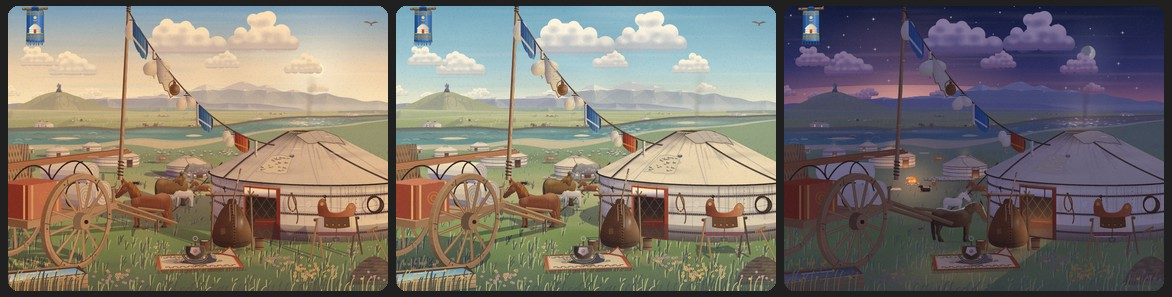
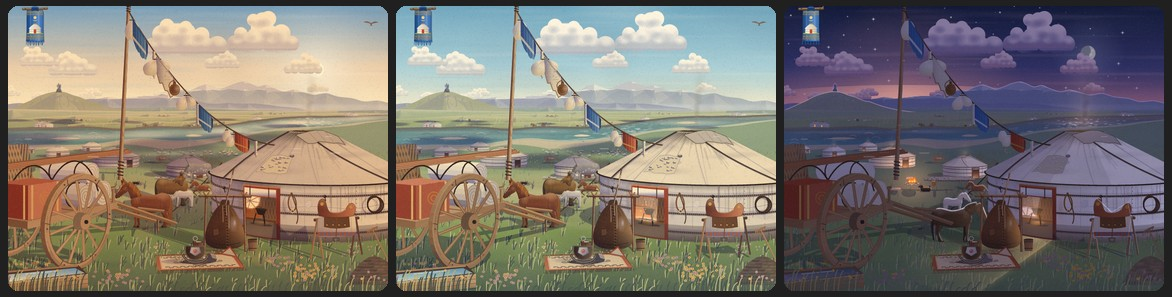
Informe de S12: la ronda de luz de Mongol, sus imágenes de referencia y la verificación de nuevo
- Sección «Ronda de luz (15 nov 2026)»: lo que pidió el autor, las cinco ideas y cómo quedaron en cada cuadro (la
  tienda como estancia con la mancha del aro, la sombra del cerro con su franja, las sombras de nube, el sol raso y
  el claro de tormenta, la luz en el aire, lo pintado y la noche a dos luces), con sus funciones y pruebas.
- Reglas 1 y 8, decisiones, archivos y pruebas al día.
- Verificación con el código nuevo: 243 pruebas, barrido de 26,383 dibujos sin fallas, peso 1.57 veces Helénico,
  capas de sombra contadas de día y de noche.
- referencia_mongol.jpg y referencia_mongol_verano.jpg, sacadas otra vez (mismos días y horas).

Claude-Session: https://claude.ai/code/session_01DBWaGQY33XkSfzf5ZFQik2

diff --git a/docs/historia/informes/S12.md b/docs/historia/informes/S12.md
@@ -4,6 +4,8 @@ Fecha: 15 nov 2026. Plan: `docs/plan_historia_y_escenas.md` (sección 8). Guía 
 
 **Esta tanda se hizo con otro esquema, a modo de prueba, acordado con el autor.** Una sesión que dirige **fijó la composición por escrito antes de dibujar** (desde dónde se mira cada cuadro, el marco, la diagonal grande y la contradiagonal, qué va en cada plano y los fallos de S11 que no se podían repetir) y **revisó cada entrega junto a Helénico**. El dibujo lo hicieron agentes separados, cada uno en su copia del repositorio: uno para lo común y el encaje de los dos cuadros, uno para cada cuadro, y uno para las piezas, los objetos del día, la banderita y el gato. Hubo dos rondas de corrección escritas (y una vuelta más del valle). Los documentos de trabajo (la composición, las dos revisiones y la lectura del calendario y del cuento) quedaron fuera del repositorio.
 
+**Después del cierre hubo una ronda de luz**, que pidió el autor al ver la tanda: está en «Ronda de luz (15 nov 2026)», más abajo, y lo que cambió de la verificación está ya al día.
+
 Trae un tema con **dos cuadros**, como Prehistoria y la Ruta de la Seda:
 - **El valle de invierno** (del 25 de septiembre al 24 de mayo, 242 días al año). Un **exterior de estepa con río, cerrado y al abrigo**: se mira de pie junto a la tienda de Bat, valle adentro; la tienda enmarca por la izquierda y por arriba, el cerro con su ovoo cierra por detrás y el río, helado la mitad del año, abre por la derecha.
 - **El campamento de verano** (estado `verano`, del 25 de mayo al 24 de septiembre, 123 días). Un **exterior abierto, de cielo grande**: se mira de pie entre una carreta y la tienda de Bat, hacia el río ancho del llano, con la cuerda de las yeguas que lleva el ojo al fondo.
@@ -31,6 +33,7 @@ Son las que cambian algo de lo que decía la guía o la composición, o que no s
    - **El fuego del campamento de verano** está en el pasillo, entre la carreta y la tienda.
    - Y después, en el verano: **el cerro del valle, con su ovoo, se ve desde el llano** **[Aproximación]**; y **la tienda de Temür**, cuando vuelve, ocupa el sitio donde estuvo la de la madre (en verano nunca coinciden).
 6. **El día de la mudanza se pinta en el sitio adonde llegan** **[Diseño propio]**, con las tiendas que se arman de las 12:00 a las 18:00 (`EscenaMongol.armado`). El cuento cuenta la mañana en el sitio de donde se van.
+7. **La ronda de luz** (ver su sección): **la sombra del cerro y su franja de sol no son las reales** **[Aproximación]**; **las sombras de nube repiten el azar de `nubes`** para caer bajo las nubes del día, y dejarían de coincidir si la biblioteca cambia cómo lo gasta **[Aproximación]**; **el interior de la tienda se mira como desde más lejos** de lo que está, para que por la puerta se vea la celosía y no solo el suelo **[Aproximación]**; **el claro de tormenta** con sus rayos es inventado **[Diseño propio]**.
 
 Las demás decisiones de cada cuadro y de las piezas están en sus secciones.
 
@@ -44,11 +47,12 @@ Las demás decisiones de cada cuadro y de las piezas están en sus secciones.
 | `ui/escenas/EscenaMongolValleCampamento.kt`, `EscenaMongolValleCerca.kt` | Las otras tiendas, el corral, los caballos y la carreta; la terraza, la tienda de Bat, el cofre, el hogar y el corral de delante |
 | `ui/escenas/EscenaMongolVerano.kt` | El campamento de verano: el orden de los planos, lo que solo cuenta este cuadro, lo que se mueve y el gato |
 | `ui/escenas/EscenaMongolVeranoLejos.kt`, `EscenaMongolVeranoCampamento.kt`, `EscenaMongolVeranoCerca.kt` | Las montañas, el cerro, las lomas y el río; las otras tiendas, el fuego y el rebaño; el suelo, la tienda de Bat, la carreta, la cuerda con lo colgado y la de las yeguas |
-| `ui/escenas/EscenaMongolPiezas.kt` | La perspectiva pequeña (`V3`, `Mirada`, `Sitio`, `Sol3`) y las piezas que usan los dos: la tienda, la carreta, el corral, los caballos, las ovejas y el rebaño, el yak y el buey, el camello lejano, el perro, el ovoo, el odre, el hogar y el argal |
+| `ui/escenas/EscenaMongolValleLuz.kt`, `ui/escenas/EscenaMongolVeranoLuz.kt` | La ronda de luz de cada cuadro: la sombra grande y su franja de sol, las sombras de nube, el sol raso, el claro de tormenta, la luz en el aire, lo pintado y la noche a dos luces |
+| `ui/escenas/EscenaMongolPiezas.kt` | La perspectiva pequeña (`V3`, `Mirada`, `Sitio`, `Sol3`) y las piezas que usan los dos: la tienda (con su interior y la luz del aro desde la ronda de luz), la carreta, el corral, los caballos, las ovejas y el rebaño, el yak y el buey, el camello lejano, el perro, el ovoo, el odre, el hogar y el argal |
 | `ui/escenas/EscenaMongolObjetos.kt` | Los doce objetos del día |
 | `ui/escenas/BanderitaMongol.kt`, `ui/escenas/PelajeMongol.kt` | La banderita y el gato |
 | `EscenaVida.kt`, `Banderitas.kt`, `Pelajes.kt` | Las ramas de Mongol en `escenaDe`, `banderitaHistoria` y `pelajeDe` |
-| `EscenaMongolPrueba.kt`, `EscenaMongolVallePrueba.kt`, `EscenaMongolVeranoPrueba.kt` | 12, 6 y 6 pruebas: lo que cada cuadro enseña coincide con el calendario y con el cuento todos los días de 2026 a 2032 |
+| `EscenaMongolPrueba.kt`, `EscenaMongolVallePrueba.kt`, `EscenaMongolVeranoPrueba.kt` | 12, 8 y 10 pruebas (las de la luz, desde la ronda de luz): lo que cada cuadro enseña coincide con el calendario y con el cuento todos los días de 2026 a 2032 |
 | `Capturas.kt` (`DIAS_CUADRO`), `CoberturaTemas.kt`, `docs/diseno/TEMAS.md`, `docs/diseno/ESCENAS.md` | Los días de muestra (14), un tema menos en los pendientes (quedan 10), sus celdas en **P** y Mongol como ejemplo de estepa con río |
 
 **Los días de muestra** (`DIAS_CUADRO`, clave `pastor_mongol`): el valle (12 ene 2027) y el verano (1 ago 2027) a las 7:00, 13:00 y 21:00, los dos despejados y con nubes; el mes blanco (6 feb 2027, 13:00 y 19:00); la parición (1 abr 2027, con lluvia); las noticias de Bujará (20 abr 2027); la costra de hielo (15 feb 2030); el luto por la madre (8 mar 2030); la matanza (29 nov 2027); la noche más larga (22 dic 2027, 21:00); la subida al verano (25 may 2027, 15:00); la esquila (28 jun 2027); el ovoo (12 jul 2027); el fieltro (7 sep 2027) y la vuelta de Temür (28 jul 2031, 13:00 y 21:00).
@@ -111,14 +115,14 @@ Se mira **de pie junto a la tienda de Bat, valle adentro**. El horizonte está e
 
 | # | Regla | Cómo se cumple | Qué se adaptó |
 |---|---|---|---|
-| 1 | Luz con dirección | `Rayo`, `Sol3` y `Pincel`: cada cara del cerro y de las sierras se enciende según hacia dónde mira; las tiendas son cilindros con su lado de luz. Sombras arrojadas de la tienda de Bat, el corral, el hogar, el cofre, el argal, el poste, los caballos, la pértiga, el objeto grande, las tiendas, la carreta y el ovoo; lo colgado echa sombra en el fieltro | Con el cielo cubierto no hay sombras: los planos se despegan con lo pisado más oscuro y la bruma por capas |
+| 1 | Luz con dirección | `Rayo`, `Sol3` y `Pincel`: cada cara del cerro y de las sierras se enciende según hacia dónde mira; las tiendas son cilindros con su lado de luz. Sombras arrojadas de la tienda de Bat, el corral, el hogar, el cofre, el argal, el poste, los caballos, la pértiga, el objeto grande, las tiendas, la carreta y el ovoo; lo colgado echa sombra en el fieltro. **Desde la ronda de luz**, con el sol bajo el valle queda en la sombra grande, azul violeta, y el sol entra en una franja que camina con la hora (`ValleLuz.sombraDelValle`); lo pintado sube donde le da (`alSol`) | Con el cielo cubierto no hay sombras: los planos se despegan con lo pisado más oscuro y la bruma por capas. La sombra grande es una [Aproximación] |
 | 2 | Cielo con vida | `cielo`, `astros` y `nubes` con la semilla del día. El ovoo se recorta contra el cielo, y la última luz de la tarde se queda un momento en lo alto del cerro | El cielo solo se abre a la derecha del cerro y por encima de él |
 | 3 | Paleta corta | 16 colores de materia y 2 de luz, con nombre en `ColorMongol`, y 8 mezclas, compartidos con el verano. Tres valores: el fieltro (crema en la luz, violeta en la sombra), la nieve (blanca azulada) y el cerro (ocre y roca oscura). El rojo vuelve en las puertas y en el cofre; el azul, en las cintas y el cuenco | El rojo, el azul y el oro salen del tema y del gato de pixel; el cuento solo dice «fieltro blanco» |
 | 4 | Superficie con profundidad | El río: agua honda y oscura lejos y más clara cerca, hielo en placas de varios azules, el cielo en el hielo, el agujero del agua y las placas del deshielo. La nieve del valle, con rachas, ventisqueros y la costra | Medio año el agua está bajo el hielo: la profundidad la dan los tonos del hielo y el agua que asoma |
 | 5 | Primer plano que es un sitio | La tienda con su puerta y lo colgado, el cofre con el objeto, el hogar, el poste con el Negro, el corral de delante con el argal, la terraza con sendas y ceniza; a distintas profundidades, tapándose; la esquina del corral cortada por el borde | Queda libre el suelo del gato, de x = 150 a 318 a la altura 277 |
 | 6 | Algo cruza las franjas | La pértiga del lazo, el techo de la tienda, el humo que entra por arriba, la diagonal del cerro contra la contradiagonal del río | El día del lazo cruza el lazo del día y no la pértiga |
 | 7 | Nada es liso | El fieltro, las cinchas, las costuras; en el cerro, hierba, manchas, matorral, roca y canchales; la nieve con rachas y motas; el cofre rozado; el grano al final | — |
-| 8 | La noche al nivel del día | La luz de la puerta en la nieve, el cofre, la olla y el Negro; las rendijas; los aros del campamento y las tiendas lejanas; el hogar; las antorchas de la parición; la luna en el hielo | En los días muy cubiertos las luces se encienden antes |
+| 8 | La noche al nivel del día | **A dos luces** (desde la ronda de luz): la cálida (la puerta con su trapecio en la nieve, el cofre, la olla y el Negro; las rendijas; los aros del campamento y las tiendas lejanas; el hogar; las antorchas de la parición) y la fría, la luna, que platea la nieve, el hielo y los ventisqueros, deja su filo en el Negro, los muros, las ruedas y el lomo de los caballos, y tumba sombras azules (`luna`, `rayoDeLuna`, `plata`, `filoDeLuna`). En la hora azul, un halo recorta el cerro y el ovoo | En los días muy cubiertos las luces se encienden antes y no hay luna |
 | 9 | Bordes naturales | Las crestas, las orillas (19 cortes puestos a mano) y el talud, rotos; la nieve en formas de curva blanda, sin picos, con el borde deshecho en motas | — |
 | 10 | Lejanía con profundidad | La sierra del fondo, la de delante, las lomas de la otra orilla, la loma del escarpe, la cima del cerro, el hombro, el campamento y la terraza; cada uno con menos bruma y más calor | Con mal tiempo, la bruma va en tres capas entre los planos |
 
@@ -229,14 +233,14 @@ Se mira **de pie entre una carreta y la tienda de Bat**, por el pasillo que qued
 
 | # | Regla | Cómo se cumple | Qué se adaptó |
 |---|---|---|---|
-| 1 | Luz con dirección | `Rayo(luces)`, `Pincel` y `Sol3`: la tienda, las carretas, los caballos, el odre, el caballete, el objeto grande y la cuerda con lo colgado tumban su sombra, larga a las 7:00 y corta a las 13:00; lo arrimado a la tienda la deja en el fieltro | De noche manda la puerta (la hierba, el fieltro de sentarse, el odre, el Negro, la rueda) y el fuego del campamento |
+| 1 | Luz con dirección | `Rayo(luces)`, `Pincel` y `Sol3`: la tienda, las carretas, los caballos, el odre, el caballete, el objeto grande y la cuerda con lo colgado tumban su sombra, larga a las 7:00 y corta a las 13:00; lo arrimado a la tienda la deja en el fieltro. **Desde la ronda de luz**: las sombras de las nubes del día sobre la estepa (`VeranoLuz.sombrasDeNube`), el sol raso que deja las lomas con la cara en sombra y la cresta encendida (`rasante`), y por la puerta, la mancha de sol del aro dentro de la tienda (`PiezasMongol.luzDelAro`) | Con el cielo cubierto no hay sombras de nube ni sombra arrojada; con tormenta, el claro con sus rayos |
 | 2 | Cielo con vida | `cielo`, `astros` y `nubes` con la semilla del día; la vara y la cuerda dejan libres el sol de las 7:00 y la luna de las 21:00 | Los días de calima (cielo casi vacío), el marco lo sostiene lo colgado, junto con los milanos y el humo del aro |
 | 3 | Paleta corta | La de los dos cuadros. Manda el crema del fieltro; lo acompañan el verde apagado de la hierba y el azul de las montañas. El rojo vuelve en el cofre, el ribete y los paños; el azul, en la manta de la silla y en la cuna | — |
 | 4 | Superficie con profundidad | El río: remanso, bancos, playa, reflejo de la orilla, calle de luz | La otra superficie grande es la estepa: más verde junto al río, pisada en el pasillo, con rachas, flores y la hierba más alta cuanto más cerca |
 | 5 | Primer plano que es un sitio | La tienda de Bat, la carreta con su rueda de unas 95 de diámetro, el odre (54 de alto), el caballete, el fieltro de sentarse (unos 85 de ancho), el argal y la artesa cortados por los bordes, las yeguas | Queda libre la franja de abajo, de x = 130 a 334, para el gato |
 | 6 | Algo cruza las franjas | La vara, la cuerda en diagonal por el cielo, la cuerda de las yeguas hacia el fondo, el palo de batir, el humo del aro | — |
 | 7 | Nada es liso | La hierba a trazos, las cárcavas del cerro, la grava, las costuras de la tienda, la madera de la carreta, el acolchado del fieltro; el grano al final | — |
-| 8 | La noche al nivel del día | La puerta abierta, el fuego del campamento, las puertas de las otras tiendas y de los campamentos lejanos, la luna en el remanso, el Negro con su filo cálido | — |
+| 8 | La noche al nivel del día | **A dos luces** (desde la ronda de luz, `dosLuces`): la cálida (la puerta abierta con su charco, el fuego del campamento, las puertas de las otras tiendas y de los campamentos lejanos, el humo del aro encendido por dentro) y la fría, la luna, con su lado plata en los techos, la rueda y el lomo de los caballos y sus sombras flojas (`rayoDeSombras`, `filoDeLuna`); la luna en el remanso; en la hora azul, el filo de las crestas (`recorte`) | Sin luna o con el cielo cubierto, solo la cálida |
 | 9 | Bordes naturales | Las dos orillas, la cresta del cerro y la de la sierra del fondo, puestas a mano; la playa de grava entre la hierba y el agua | — |
 | 10 | Lejanía con profundidad | Las tres cadenas, el cerro, cuatro lomas, los campamentos de los recodos y las manadas; cada plano con menos bruma | Las tiendas lejanas son una forma simple (pared, techo, puerta y aro): a ese tamaño la pieza entera no se distingue y pesa diez veces más |
 
@@ -364,6 +368,48 @@ Las medidas de la tienda y las posturas del caballo **[Aproximación]**; la puer
 
 No se abrió ninguna fuente en la sesión. **[sin verificar]**: las proporciones y las capas de los caballos mongoles del siglo XIII; las cintas azules en los ovoos en 1220 (el cuento las nombra, pero la costumbre puede ser más tardía); la forma de la silla de esa época; que el violín de cabeza de caballo tuviera ya esa forma; la bolsita del eslabón; los palillos en la funda del cuchillo tan temprano; yaks en las orillas del Kerulen, que es estepa baja; la medida de las tiendas; los odres de cuero con su palo de batir.
 
+## Ronda de luz (15 nov 2026)
+
+**El autor la pidió después de ver la tanda**, solo de iluminación, con una indicación: **Helénico es el piso, no el techo**. Pidió inspirarse en la luz de los interiores ya aprobados: los frescos alumbrados de la capilla de Roma, Scriptorium y la noche de Renacimiento, con la luz cálida de dentro junto a la fría de la luna. Son interiores y Mongol es un exterior: no se copió la escena, **se copió la lógica**. La hicieron agentes de dibujo separados, uno por cuadro (la tienda, que es pieza común, entró con el del verano), con un encargo escrito y hojas comparadas al lado de esos tres interiores, no solo de Helénico. No se movió la composición ni se rehizo ninguna pieza ni ningún objeto: el odre del verano se corrió un poco a la izquierda para no tapar la puerta. **No cambia ninguna pieza de `paisaje/`**: la tienda usa `solQueEntra` de `paisaje/Estancia.kt` tal como está.
+
+### Las cinco ideas que se trajeron
+
+1. **La luz tiene forma y cae sobre penumbra.** No está todo alumbrado: hay una zona en sombra de color (azul violeta, nunca gris) y dentro una mancha de luz con borde reconocible.
+2. **La mancha camina con la hora.** A las 7:00, a las 13:00 y al atardecer está en otro sitio, con otra forma y otro color.
+3. **La luz se ve en el aire:** un haz con polvo o humo entre el hueco y la mancha.
+4. **La luz enciende lo pintado:** donde cae, los colores suben; fuera, quedan apagados.
+5. **De noche, dos luces de color opuesto a la vez:** la lumbre, naranja, con su halo y su charco, y la luna, azul plata, con su mancha fría; cada cosa recibe una por un lado y otra por el otro, y cada una tumba su sombra.
+
+### Cómo quedó
+
+**La tienda es una estancia: el aro del techo es su ventana** (los dos cuadros; `PiezasMongol`, en `EscenaMongolPiezas.kt`). Por la puerta abierta o entreabierta de la tienda grande se ve dentro la penumbra cálida, el suelo de fieltro, la celosía del fondo alumbrada desde abajo por el fogón, la alfombra, el cofre pintado, el fogón con la olla y el humo que sube al aro, cruzado por el haz con su polvo. **La mancha de sol que entra por el aro** (`luzDelAro`) es la lógica de `solQueEntra` de los interiores: baja hacia el fondo de la tienda y se corre al lado contrario del sol, así que camina con la hora: con el sol bajo sube por la celosía (el sol se toma de 35° como poco, para que no se vaya al techo, que no se ve), a mediodía cae en el suelo y por la tarde vuelve a subir por la celosía, del otro lado **[Aproximación]**: no es el recorrido real del sol por el aro de una tienda que mira al sur. De noche entra, si la hay, la mancha fría de la luna, y el fuego alumbra la celosía. **El interior se mira como desde más lejos** de lo que está (los ojos a 1.4 m y a 9 m, a lo largo de la puerta) **[Aproximación]**: con los ojos de verdad, altos y lejos, solo se vería el suelo. En las tiendas chicas, lo mismo reducido (`huecoLejano`): la penumbra, el resplandor del fuego y la mancha del aro. El charco de la puerta tiene forma (`charcoDePuerta`): el trapecio que recortan las jambas, duro junto al umbral y blando lejos; con la puerta cerrada, la rendija. Prueba: `laManchaDelAroCaminaConLaHora` (de mañana y de tarde a lados contrarios, siempre dentro de la tienda).
+
+**El valle: la sombra del cerro con su franja de sol** (`EscenaMongolValleLuz.kt`, `ValleLuz`):
+- **La sombra grande** (`sombraDelValle`). Con el sol bajo el valle queda en penumbra azul violeta y el sol solo toca lo alto y una franja por donde le dejan pasar. **Por la mañana** el sol sale por la derecha, detrás de las lomas de la otra orilla: el fondo del valle (el campamento y el río) está en su sombra, y la terraza de Bat, más alta, ya tiene sol; la franja baja del collado de la sierra y cruza el río, el corral y la carreta. **Por la tarde** el sol baja detrás del cerro: su sombra sale del pie, avanza sobre el campamento y la terraza y sube por la tienda de Bat; la franja entra por una vaguada del pie del cerro y se corre a la izquierda mientras el sol baja. Se nota hasta las 9:30 y desde las 16:00; entre las 11:00 y las 15:00 no hay (`alcance`). De noche y con el cielo cubierto (nublado por encima de 0.55), tampoco. **[Aproximación]**: no es la sombra real de ese cerro con ese sol, como `solQueEntra` no es el recorrido real del sol por una ventana; sirve para que cada hora tenga su luz.
+- **La franja** (`formaDeLaFranja`, `sombraGrande`, `luzDeLaFranja`) tiene bordes ondulados y blandos y la punta redonda; en el río se hunde; lo que pisa en ella echa dentro su sombra larga; a lo que está de pie (las tiendas, la tienda de Bat, el Negro, el cofre, la olla, el poste) la sombra le sube desde el pie, sin partirlo en diagonal. Con el sol bajo, lo que sí toca (la cima con el ovoo, los techos y el humo de las tiendas altas, la terraza por la mañana, la lejanía por la tarde) se dora (`luzCalida`).
+- **La luz en el aire** (`vaho`): las mañanas frías y claras, de las 5:30 a las 9:30, el vaho de la helada sobre el río y entre las tiendas, encendido donde lo cruza la franja, con el haz que baja del collado y los cristales de hielo que brillan en él; el aliento del rebaño y del Negro con frío (`aliento`, `frio`); el humo de los aros encendido a contraluz.
+- **Lo pintado** (`alSol`): la puerta y la tienda de Bat, el cofre, las tiendas que pisa la franja y las cintas del ovoo suben y se calientan al sol, con el `Pincel`; en la sombra grande bajan y se enfrían.
+- **La noche a dos luces** (`luna`, `lumbre`, `rayoDeLuna`, `solDeSombras`, `plata`, `filoDeLuna`, `filoDelMuro`, `filoDeRueda`, `lomoDeLuna`): la lumbre de la puerta, el aro y el hogar, y la luna, que platea la nieve, el hielo y los ventisqueros, deja su filo en el Negro, los muros de los corrales, las ruedas y el lomo de los caballos, y tumba sus sombras azules con las mismas capas de sombra del día. **La hora azul** (`horaAzul`, de las 20:12 a las 22:24): un halo detrás de la cresta recorta el cerro y el ovoo.
+- La luz del gato tiene en cuenta la sombra grande.
+- Pruebas: `laSombraDelCerroCaminaConLaHora` (de mañana el campamento en sombra y la terraza no; la franja cambia de sitio; a mediodía no hay; por la tarde llega a la terraza; de noche y con el cielo cubierto no hay) y `deNocheHayDosLuces`.
+
+**El verano: las sombras de nube, el sol raso y el claro de tormenta** (`EscenaMongolVeranoLuz.kt`, `LuzVerano`):
+- **Las sombras de las nubes del día** (`nubesDelDia`, `sombrasDeNube`, `enSombraDeNube`, `sombrasDeNubes`). Cada nube que pinta `nubes` echa su sombra bajo ella sobre la estepa: más cerca y más grande cuanto más alta está en el cielo (las del horizonte, chicas y juntas en las lomas del fondo; las de arriba, anchas sobre el campamento), corrida al lado contrario del sol y hacia el fondo, más cuanto más bajo está el sol, así que caminan con la hora. Van en una sola capa, con borde de lóbulos blandos. Sin sol (de noche, al alba y al ocaso, con el cielo cubierto) no hay. **[Aproximación]**: para que caigan bajo las nubes del día, `nubesDelDia` **repite el azar de `nubes`** (`paisaje/Cielo.kt`) con la misma semilla y en el mismo orden; si la biblioteca cambia cómo gasta el azar, las sombras dejan de coincidir con las nubes (siguen siendo las de un cielo de ese día). Lo que queda bajo una nube recibe un pincel de sombra (`enSombra`).
+- **El sol raso** (`rasante`): con el sol bajo y el cielo limpio, las lomas tienen su cara de sombra larga y la cresta encendida.
+- **El claro de tormenta** (`claroDeTormenta`, `rayosDeTormenta`) **[Diseño propio]**: con tormenta, de día, el sol se cuela por un claro de las nubes y baja en rayos (como `hazDeSol`, en grande y lejos) hasta un trozo del llano del otro lado del río, que se enciende; el claro está cada día en otro sitio y se corre con la hora.
+- **La luz en el aire:** la bruma baja del río al alba, más espesa hacia las 6:40, encendida del lado del sol (`brumaDelRio`); el polvo dorado de las manadas por la tarde, de las 14:30 a las 19:50 (`polvoDorado`); el humo a contraluz del sol bajo y, de noche, encendido por dentro por la lumbre del aro (`humoEncendido`).
+- **Lo pintado** (`pintado`): el fieltro de sentarse, la manta de la silla, las cintas y lo colgado suben y se calientan al sol y bajan y se enfrían en la sombra, con el pincel, sin velos.
+- **La noche a dos luces** (`dosLuces`, `rayoDeSombras`, `filoDeLuna`, `recorte`, `filoDelOcaso`): la cálida (la puerta abierta y el fuego del campamento) y la fría (la luna, `PiezasMongol.lunaQueAlumbra` y `rayoDeLuna`, que tumba sombras frías y flojas con las mismas capas del día), con el lado plata en los techos, la rueda y el lomo de los caballos; en la hora azul, el filo de las crestas.
+- Pruebas: `lasSombrasDeLasNubesCaminanConLaHora`, `conElCieloCubiertoNoHaySombraArrojada` y `deNocheHayDosLuces`.
+
+### Lo que quedó flojo
+
+- **La sombra de luna de la tienda de Bat no se ve:** la luna se pinta a la derecha del cuadro, así que la sombra cae hacia la izquierda, fuera del cuadro o detrás de la tienda.
+- **La penumbra de la mañana del valle** es más lavanda que azul hondo.
+- **Las sombras de nube se leen poco los días de cúmulos;** se leen mejor con las nubes sueltas.
+- **El peso subió** (ver «Verificación»).
+- **El movimiento** de la luz (el haz, el vaho, el polvo, el humo encendido) solo se vio en instantes quietos.
+
 ## Piezas que convendría subir a la biblioteca
 
 Ninguna se subió en esta tanda. Al subir cualquiera, Mongol tiene que quedar idéntico punto por punto, como se hizo con `hojaDeHiguera` en S11.
@@ -376,12 +422,16 @@ Ninguna se subió en esta tanda. Al subir cualquiera, Mongol tiene que quedar id
 
 ## Verificación
 
-Con el código final (el dibujo de `eeb2772`; el registro y el cambio de nombre de `d0edbe2` no cambian ningún cuadro; las pruebas se volvieron a pasar después de ese cambio):
-- **Pruebas:** 226 pasan juntas en el arnés: las 202 de las demás escenas (todas las `Escena*Prueba`, `EscenasPrueba` y `EstanciaPrueba`, entre ellas las que recorren todas las escenas registradas día por día) y las 24 de Mongol (12 comunes, 6 del valle y 6 del verano).
-- **Barrido completo de Mongol, repartido en cuatro procesos:** **26,383 dibujos, 0 fallas**: todos los días de 2026 a 2032 a siete horas (17,899), los 1,145 días especiales o con estado a siete horas más (8,015; aquí cuentan los 123 días del verano de cada año y las faenas largas, por eso son muchos más que en S11), todos los tiempos en seis días del año (378) y los doce objetos y ninguno (91). En cada dibujo se piden también las anclas, los estorbos y la luz del gato.
-- **Peso** en el arnés: en el barrido completo, unos 121 ms por dibujo pequeño (190 px) con cuatro procesos a la vez y la máquina cargada por otro trabajo. Medido aparte, con un solo proceso, los mismos días (todo 2027 a tres horas, 1,095 dibujos) uno detrás del otro: **Helénico, 70 ms; Mongol, 99 ms** (1.4 veces Helénico). No se midió a tamaño de teléfono.
-- **Capas de sombra en la parte quieta** (`capaSombra`, que es un `saveLayer`; solo se abren cuando hay sol): **el valle, 4** (la del campamento, la del primer plano, la de lo colgado sobre el fieltro de la tienda de Bat y la del ovoo); **el verano, 3** (la del campamento, la del suelo de delante y la de la pared de la tienda). **Ninguna en la parte viva** de los dos (humos, llamas, brasas, antorchas, destellos y el tiempo, todas piezas sin capa). La revisión ponía un tope de seis.
-- **Hojas vistas junto a Helénico:** de los dos, un día despejado con nubes y uno de mal tiempo a las tres horas, ampliados, los días especiales y los doce objetos de día y de noche.
+Con el código de después de la ronda de luz (la rama en `2e0f8104` más el encaje, la banderita y el gato de Botánico, que no tocan Mongol):
+- **Pruebas:** 243 pasan juntas en el arnés: las 202 de las demás escenas (todas las `Escena*Prueba`, `EscenasPrueba` y `EstanciaPrueba`, entre ellas las que recorren todas las escenas registradas día por día), las 30 de Mongol (12 comunes, 8 del valle y 10 del verano) y las 11 de Botánico (S13, a medias).
+- **Barrido completo de Mongol, repartido en dos procesos:** **26,383 dibujos, 0 fallas**: todos los días de 2026 a 2032 a siete horas (17,899), los 1,145 días especiales o con estado a siete horas más (8,015; aquí cuentan los 123 días del verano de cada año y las faenas largas, por eso son muchos más que en S11), todos los tiempos en seis días del año (378) y los doce objetos y ninguno (91). En cada dibujo se piden también las anclas, los estorbos y la luz del gato. (Antes de la ronda de luz, el mismo barrido en cuatro procesos también dio 0 fallas.)
+- **Peso** en el arnés, medido de forma alternada (Helénico, Mongol, Helénico, Mongol; un solo proceso; todo 2027 a tres horas, 1,095 dibujos de 190 px cada vez): **Helénico, 82.4 y 82.2 ms; Mongol, 127.6 y 131.8 ms: 1.57 veces Helénico.** Antes de la ronda de luz, medido igual pero una sola vez y con otra carga en la máquina, era 1.4 veces (99 frente a 70 ms). En el barrido completo, unos 129 ms por dibujo con dos procesos. No se midió a tamaño de teléfono.
+- **Capas de sombra en la parte quieta**, contadas dibujando (cada `saveLayer`; `capaSombra` es uno y solo se abre si hay luz que tumbe sombra), todo 2027 a once horas y los nueve climas en un día de cada lugar (4,213 dibujos):
+  - **El valle, de día: 4 o 5.** Las del campamento, del primer plano, de lo colgado sobre el fieltro de la tienda de Bat y del ovoo, y con el sol bajo la de la sombra grande (`sombraGrande`). **De noche: 3** con luna (las del campamento, del primer plano y del ovoo, con el rayo de la luna). Ninguna con el cielo cubierto o sin luna.
+  - **El verano, de día: 3 o 4.** Las del campamento, del suelo de delante y de la pared de la tienda, y cuando hay sol la de las sombras de nube (una sola capa para todas). **De noche: 3** con luna. Ninguna con el cielo cubierto o sin luna.
+  - **Ninguna en la parte viva** de los dos (humos, llamas, brasas, antorchas, destellos y el tiempo). El tope que se puso era seis.
+- **Imágenes de referencia** sacadas otra vez con el código nuevo, los mismos días y horas.
+- **Hojas vistas junto a Helénico** antes de la ronda: de los dos, un día despejado con nubes y uno de mal tiempo a las tres horas, ampliados, los días especiales y los doce objetos de día y de noche. En la ronda de luz, además, a cinco horas y al lado de la capilla de Roma, Scriptorium y Renacimiento.
 
 ## Resultado en Actions
 
@@ -395,7 +445,8 @@ Sobre `7130059` (el registro y las imágenes, con el dibujo de `eeb2772`), en la
 
 ## Lo que falta
 
-- **Que el autor vea los dos cuadros junto a Helénico** (`docs/diseno/escenas/referencia_mongol.jpg` y `referencia_mongol_verano.jpg`).
+- **Que el autor vea los dos cuadros junto a Helénico** (`docs/diseno/escenas/referencia_mongol.jpg` y `referencia_mongol_verano.jpg`), ya con la ronda de luz, y también al lado de la capilla de Roma, Scriptorium y Renacimiento.
+- **El peso** subió con la ronda de luz (1.57 veces Helénico en el arnés); conviene mirarlo en el teléfono.
 - **Decisiones que le tocan al autor:** el río (que la guía no ponía), el hogar de fuera del valle, la banderita nueva, la regla del manto de nieve (y que el cerro quede más ocre que el valle en enero), las desviaciones de la composición y la mudanza pintada en el sitio de llegada.
 - **Si el esquema de esta tanda sirve** para las que siguen (composición por escrito antes de dibujar, agentes separados por cuadro y por piezas, revisiones junto a Helénico).
 - **Probarlo en el teléfono:** el movimiento, el gato caminando y el peso del dibujo.
